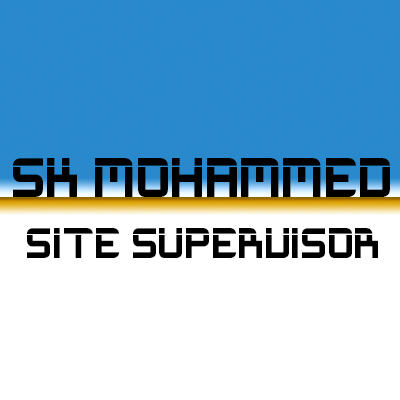
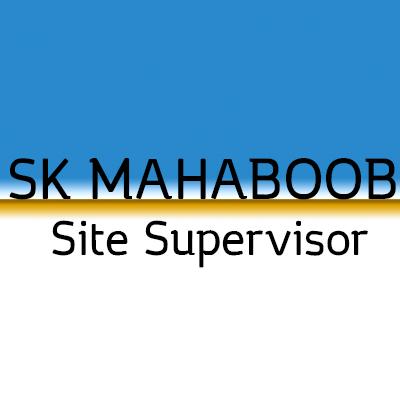
1.63

Changed region(s): [[0.0, 0.39, 1.0, 0.69]]

diff --git a/about.html b/about.html
@@ -191,7 +191,7 @@
 				<div class="row">
 					<div class="col-sm-4 box effect1">
 						<img src="images/persons/person-06.jpg">
-						<h6 class="person-name">Sk Mohammed</h6>
+						<h6 class="person-name">Sk Mahaboob</h6>
 						<div class="person-position">Site Supervisor</div>
 					</div>
 					<div class="col-sm-4 box effect1">
